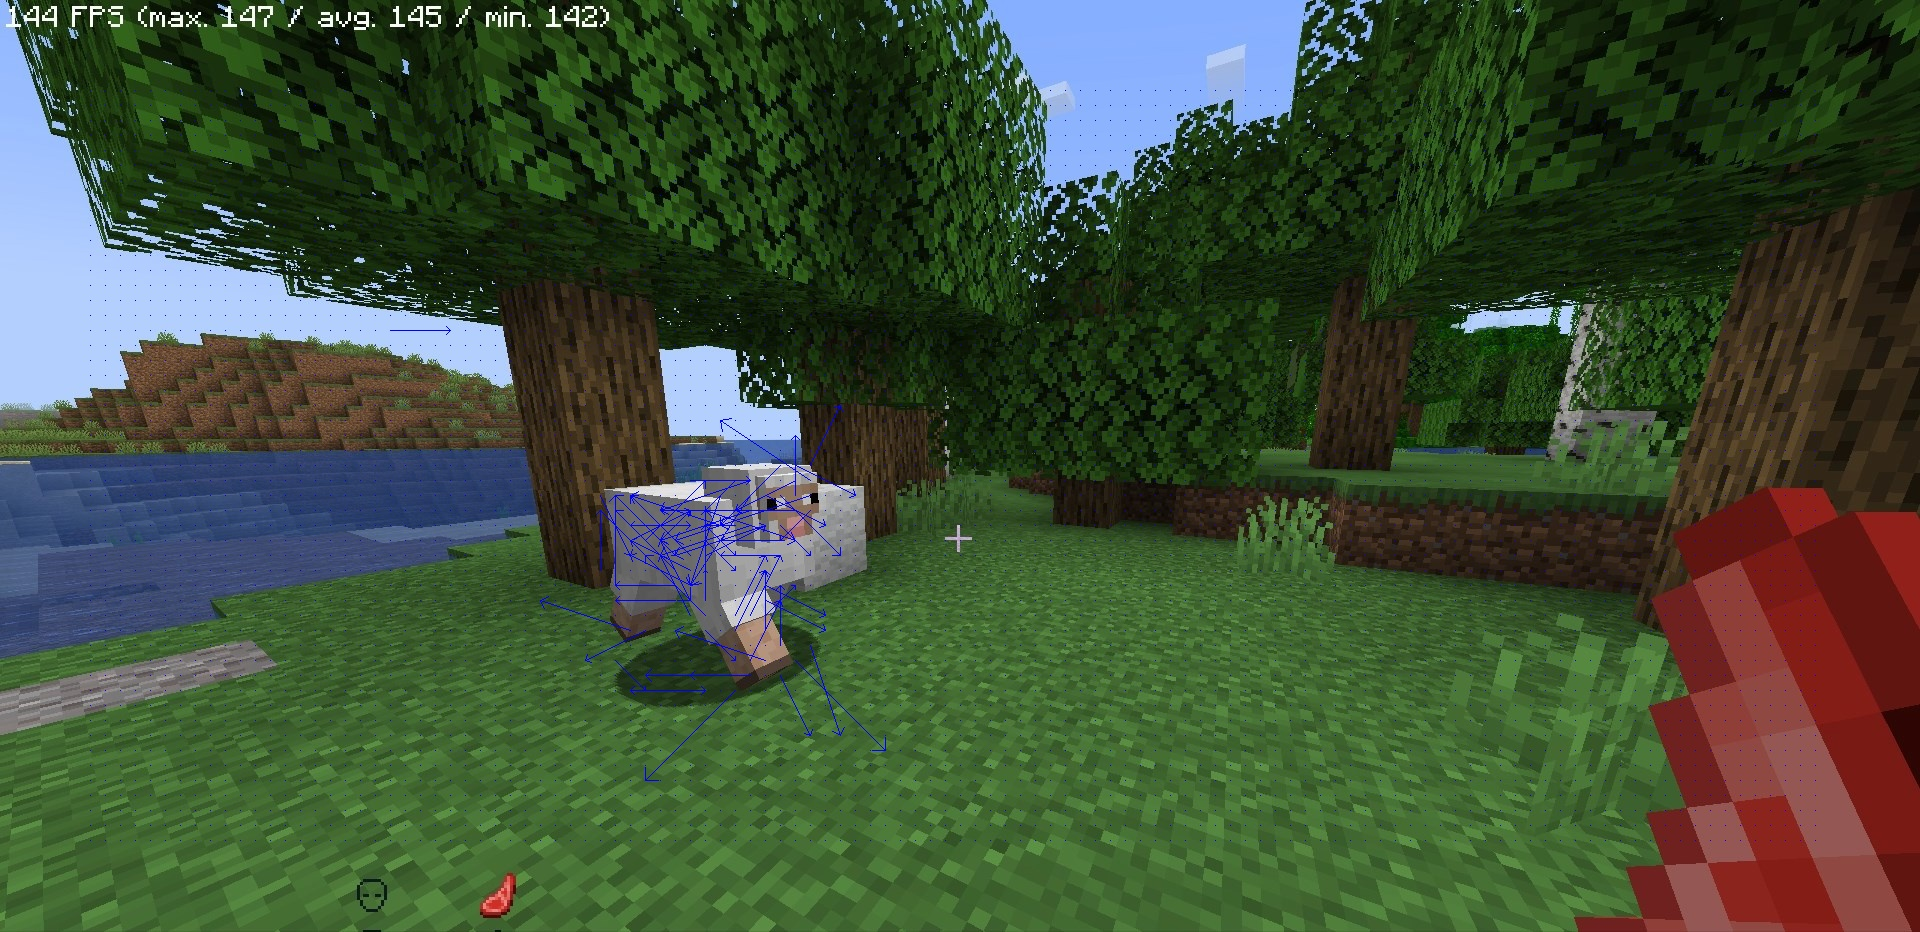
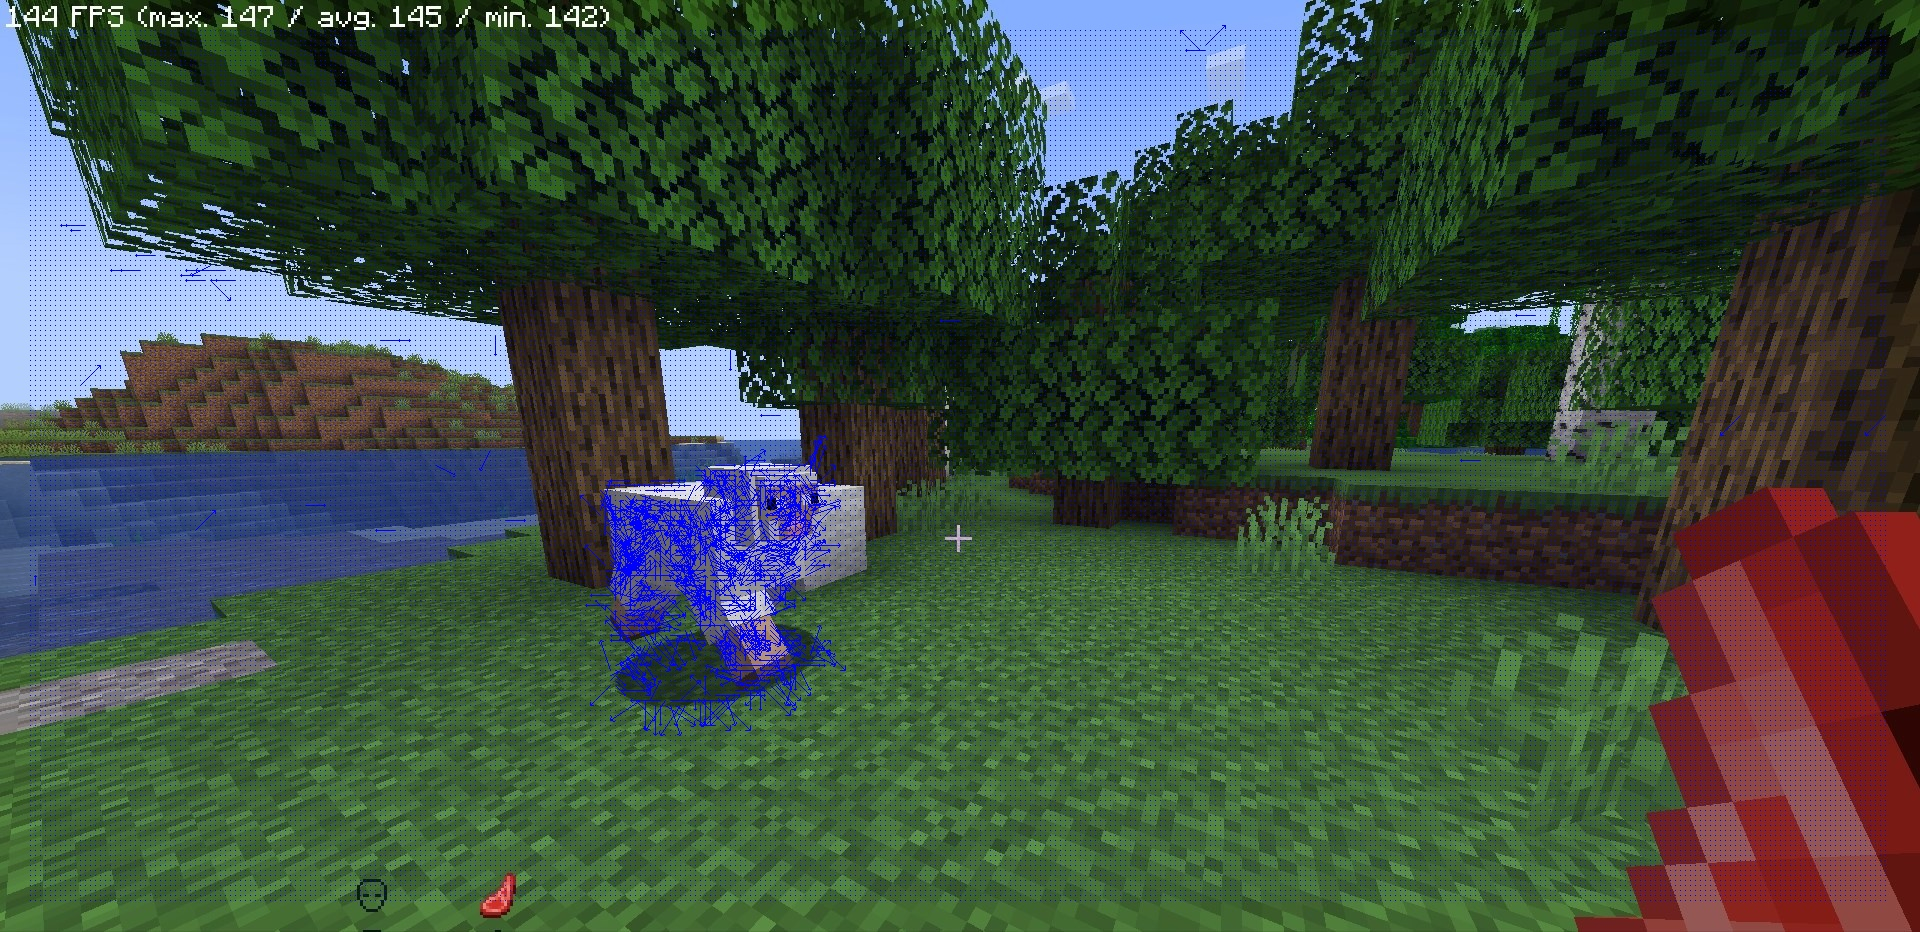
Lowered blocksize

Changed region(s): [[0.0312, 0.0311, 1.0, 0.9646]]

diff --git a/lab6/main.cpp b/lab6/main.cpp
@@ -24,7 +24,7 @@ int main(int argc, char* argv[]) {
     output_imgs["filteredVectors"] = src_cur_colour.clone();
     output_imgs["clusterized"] = src_cur_colour.clone();
 
-    getVectorsImg(src_prev_colour, src_cur_colour, 15, output_imgs);
+    getVectorsImg(src_prev_colour, src_cur_colour, 5, output_imgs);
 
 
     std::string output_folder = "output";
